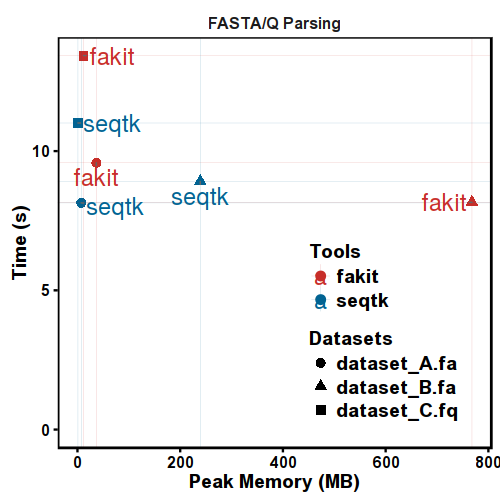
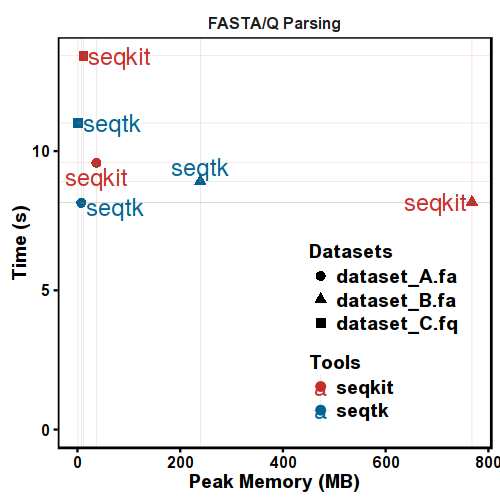
change name from fakit to seqkit

diff --git a/README.md b/README.md
@@ -3,7 +3,7 @@ bio
 [![GoDoc](https://godoc.org/github.com/shenwei356/bio?status.svg)](https://godoc.org/github.com/shenwei356/bio)
 
 A lightweight and high-performance
-(see [fakit](https://github.com/shenwei356/fakit#benchmark) benchmark)
+(see [seqkit](https://github.com/shenwei356/seqkit#benchmark) benchmark)
 bioinformatics package.
 
 FASTA/Q parsing
@@ -18,7 +18,7 @@ To test the performance, three datasets are used:
 - dataset_B, human genome,     2.9G
 - dataset_C, Illumina reads,   2.2G
 
-Summary by [`fakit`](https://github.com/shenwei356/fakit):
+Summary by [`seqkit`](https://github.com/shenwei356/seqkit):
 
     file           seq_format   seq_type   num_seqs   min_len        avg_len       max_len
     dataset_A.fa   FASTA        DNA          67,748        56       41,442.5     5,976,145
@@ -28,10 +28,10 @@ Summary by [`fakit`](https://github.com/shenwei356/fakit):
 [`seqtk`](https://github.com/lh3/seqtk/)
 (Version [1.1-r92-dirty](https://github.com/lh3/seqtk/tree/fb85aad4ce1fc7b3d4543623418a1ae88fe1cea6),
 using `kseq.h`)
-and [`fakit`](https://github.com/shenwei356/fakit)
-(Version [v0.2.8](https://github.com/shenwei356/fakit/releases/tag/v0.2.8),
+and [`seqkit`](https://github.com/shenwei356/seqkit)
+(Version [v0.2.8](https://github.com/shenwei356/seqkit/releases/tag/v0.2.8),
 using this package) were used to test.
-**Note** that `seqtk` does not support wrapped (fixed line width) ouputing, so `fakit` uses
+**Note** that `seqtk` does not support wrapped (fixed line width) ouputing, so `seqkit` uses
 `-w 0` to disable outputing wrapping.
 Script [`memusg`](https://github.com/shenwei356/memusg) is used to assess running time
 and peak memory usage.
